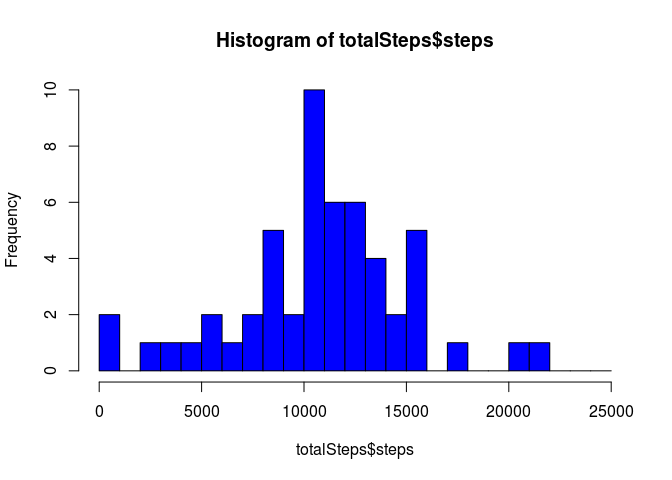
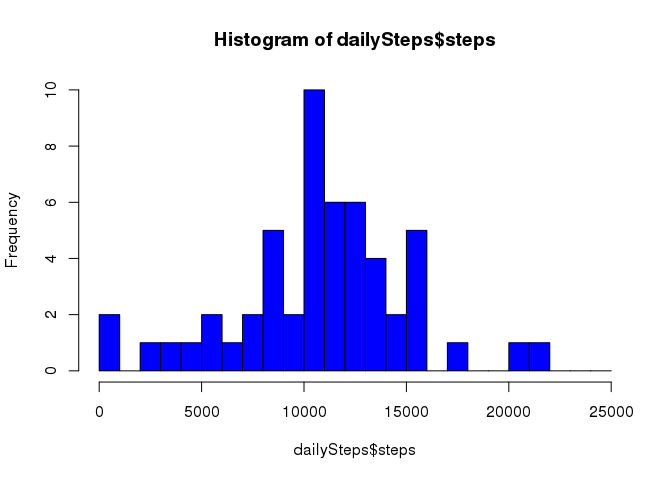
Finished second graph.

diff --git a/PA1_template.html b/PA1_template.html
@@ -69,18 +69,6 @@ img {
 <div id="initializations" class="section level3">
 <h3>Initializations</h3>
 <p>Make some initial environmental settings for the script. This makes sure we have needed libraries loaded and key script variables set. Specifically, we expect the data to be in our working directory. The same directory from which our R script is running. That needs to be set. When running this script on your computer, set the <em>working_dir</em> variable accordingly, so that you can reproduce the output. It is the only thing that needs to be changed.</p>
-<pre class="r"><code># load the dplyr library
-library(dplyr)</code></pre>
-<pre><code>## 
-## Attaching package: 'dplyr'
-## 
-## The following object is masked from 'package:stats':
-## 
-##     filter
-## 
-## The following objects are masked from 'package:base':
-## 
-##     intersect, setdiff, setequal, union</code></pre>
 <pre class="r"><code># set working_dir variable
 working_dir &lt;- &quot;~/Documents/courses/repdata/RepData_PeerAssessment1&quot;
 
@@ -94,34 +82,62 @@ activity &lt;- read.csv(&quot;activity.csv&quot;) </code></pre>
 </div>
 <div id="preprocess-the-data" class="section level3">
 <h3>Preprocess the data</h3>
-<p>In order to produce histogram and calculate the mean and median, we first compute the sum of steps for each date.</p>
-<pre class="r"><code># get totalSteps by date
-totalSteps &lt;- aggregate(steps ~ date, activity, sum)
-meanSteps &lt;- mean(totalSteps$steps)
-medianSteps &lt;- median(totalSteps$steps)</code></pre>
+<p>In order to produce histogram and calculate the mean and median, we first compute the sum of steps for each day.</p>
+<pre class="r"><code># get dailySteps by day
+dailySteps &lt;- aggregate(steps ~ date, activity, sum)
+meanSteps &lt;- as.integer(mean(dailySteps$steps))
+medianSteps &lt;- as.integer(median(dailySteps$steps))
+
+# get interval steps by day
+dailyAvg &lt;- aggregate(steps ~ interval, activity, mean)</code></pre>
 </div>
 </div>
 <div id="what-is-mean-total-number-of-steps-taken-per-day" class="section level2">
 <h2>What is mean total number of steps taken per day?</h2>
-<ol style="list-style-type: decimal">
+<ul>
 <li>The historgam of the total number of step taken.</li>
-</ol>
-<pre class="r"><code>hist(totalSteps$steps, breaks=seq(0,25000,1000), col=&quot;BLUE&quot;)</code></pre>
[1 lines of base64/hex data omitted]
-<ol style="list-style-type: decimal">
-<li>The <strong>mean</strong> and <strong>median</strong> of total number of steps taken per day.</li>
-<li>Mean: 1.076618910^{4}</li>
+</ul>
+<pre class="r"><code>hist(dailySteps$steps, breaks=seq(0,25000,1000), col=&quot;BLUE&quot;)</code></pre>
[1 lines of base64/hex data omitted]
+<ul>
+<li>The <strong>mean</strong> and <strong>median</strong> of total number of steps taken per day.
+<ul>
+<li>Mean: 10766</li>
 <li>Median: 10765</li>
-</ol>
+</ul></li>
+</ul>
 </div>
 <div id="what-is-the-average-daily-activity-pattern" class="section level2">
 <h2>What is the average daily activity pattern?</h2>
+<ul>
+<li>Below is a time series plot of the 5-minute intervals and the average number of steps taken, averaged across all days.</li>
+</ul>
+<pre class="r"><code>plot(dailyAvg$interval,
+     dailyAvg$steps,
+     type = &quot;l&quot;,
+#     pch = 19,
+#     col = &quot;blue&quot;,
+#     ylim = c(3.0,8.0),
+     xlab = &quot;5 Minute Intervals&quot;,
+     ylab = &quot;Average Steps Taken&quot;,
+#     main = &quot;Total PM2.5 Emissions in United States\nAnnually from 1999 to 2008&quot;,
+     panel.first = grid()
+)
+axis(side=1, at = seq(0,2500,250))</code></pre>
[1 lines of base64/hex data omitted]
+<pre class="r"><code>max_interval &lt;- dailyAvg[which(dailyAvg$steps == max(dailyAvg$steps)),]$interval</code></pre>
+<ul>
+<li>The interval which contains the maximum average, across all days in the dataset, is <span class="math">\(835\)</span></li>
+</ul>
 </div>
 <div id="imputing-missing-values" class="section level2">
 <h2>Imputing missing values</h2>
-</div>
-<div id="are-there-differences-in-activity-patterns-between-weekdays-and-weekends" class="section level2">
-<h2>Are there differences in activity patterns between weekdays and weekends?</h2>
+<pre class="r"><code># get count of the total number NA values
+total_na &lt;- length(activity[which(is.na(activity$steps)),]$steps)</code></pre>
+<ol style="list-style-type: decimal">
+<li>Total number of missing values is <span class="math">\(2304\)</span></li>
+<li><h2>Are there differences in activity patterns between weekdays and weekends?</h2></li>
+</ol>
 </div>
 
 

diff --git a/PA1_template.md b/PA1_template.md
@@ -8,24 +8,6 @@ Make some initial environmental settings for the script. This makes sure we have
 
 
 ```r
-# load the dplyr library
-library(dplyr)
-```
-
-```
-## 
-## Attaching package: 'dplyr'
-## 
-## The following object is masked from 'package:stats':
-## 
-##     filter
-## 
-## The following objects are masked from 'package:base':
-## 
-##     intersect, setdiff, setequal, union
-```
-
-```r
 # set working_dir variable
 working_dir <- "~/Documents/courses/repdata/RepData_PeerAssessment1"
 
@@ -44,37 +26,74 @@ activity <- read.csv("activity.csv")
 
 ### Preprocess the data
 
-In order to produce histogram and calculate the mean and median, we first compute the sum of steps for each date. 
+In order to produce histogram and calculate the mean and median, we first compute the sum of steps for each day. 
 
 
 ```r
-# get totalSteps by date
-totalSteps <- aggregate(steps ~ date, activity, sum)
-meanSteps <- mean(totalSteps$steps)
-medianSteps <- median(totalSteps$steps)
+# get dailySteps by day
+dailySteps <- aggregate(steps ~ date, activity, sum)
+meanSteps <- as.integer(mean(dailySteps$steps))
+medianSteps <- as.integer(median(dailySteps$steps))
+
+# get interval steps by day
+dailyAvg <- aggregate(steps ~ interval, activity, mean)
 ```
 
 ## What is mean total number of steps taken per day?
 
-1. The historgam of the total number of step taken.
+* The historgam of the total number of step taken.
 
 
 ```r
-hist(totalSteps$steps, breaks=seq(0,25000,1000), col="BLUE")
+hist(dailySteps$steps, breaks=seq(0,25000,1000), col="BLUE")
 ```
 
 ![](PA1_template_files/figure-html/unnamed-chunk-4-1.png) 
 
-1. The **mean** and **median** of total number of steps taken per day.
-  1. Mean: 1.0766189\times 10^{4}
-  1. Median: 10765
+* The **mean** and **median** of total number of steps taken per day.
+    * Mean: 10766
+    * Median: 10765
   
 ## What is the average daily activity pattern?
 
+* Below is a time series plot of the 5-minute intervals and the average number of steps taken, averaged across all days.
+
+
+
+```r
+plot(dailyAvg$interval,
+     dailyAvg$steps,
+     type = "l",
+#     pch = 19,
+#     col = "blue",
+#     ylim = c(3.0,8.0),
+     xlab = "5 Minute Intervals",
+     ylab = "Average Steps Taken",
+#     main = "Total PM2.5 Emissions in United States\nAnnually from 1999 to 2008",
+     panel.first = grid()
+)
+axis(side=1, at = seq(0,2500,250))
+```
+
+![](PA1_template_files/figure-html/unnamed-chunk-5-1.png) 
+
+
+
+```r
+max_interval <- dailyAvg[which(dailyAvg$steps == max(dailyAvg$steps)),]$interval
+```
+
+* The interval which contains the maximum average, across all days in the dataset, is $835$
 
 
 ## Imputing missing values
 
 
+```r
+# get count of the total number NA values
+total_na <- length(activity[which(is.na(activity$steps)),]$steps)
+```
 
+1. Total number of missing values is $2304$
+1. 
 ## Are there differences in activity patterns between weekdays and weekends?
